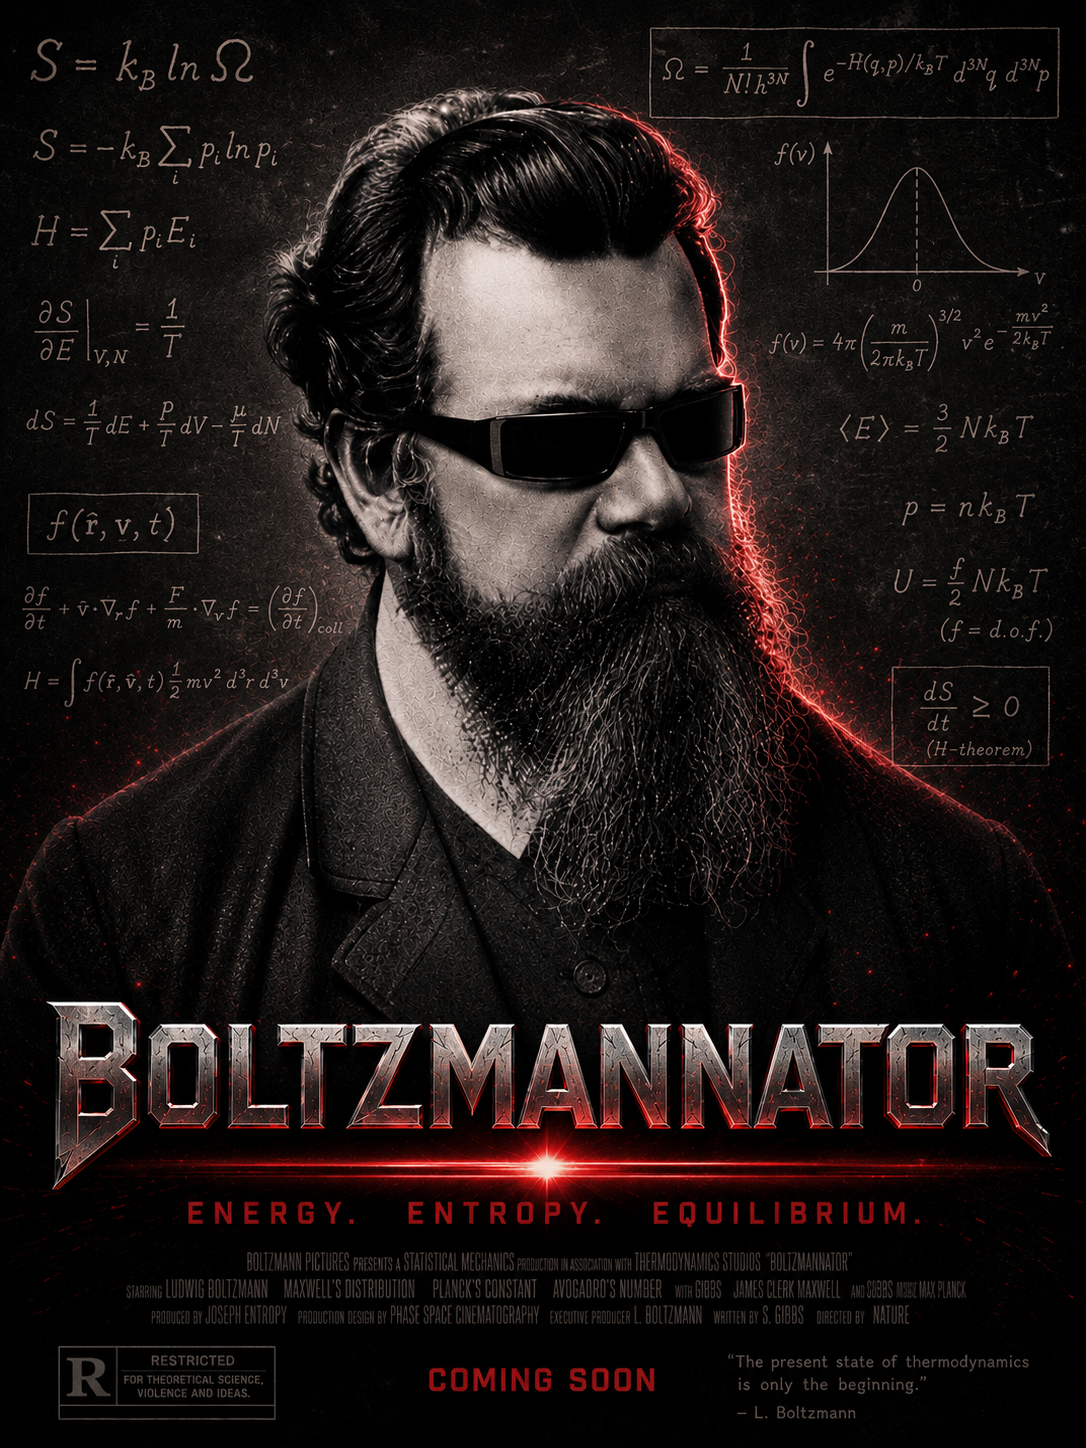
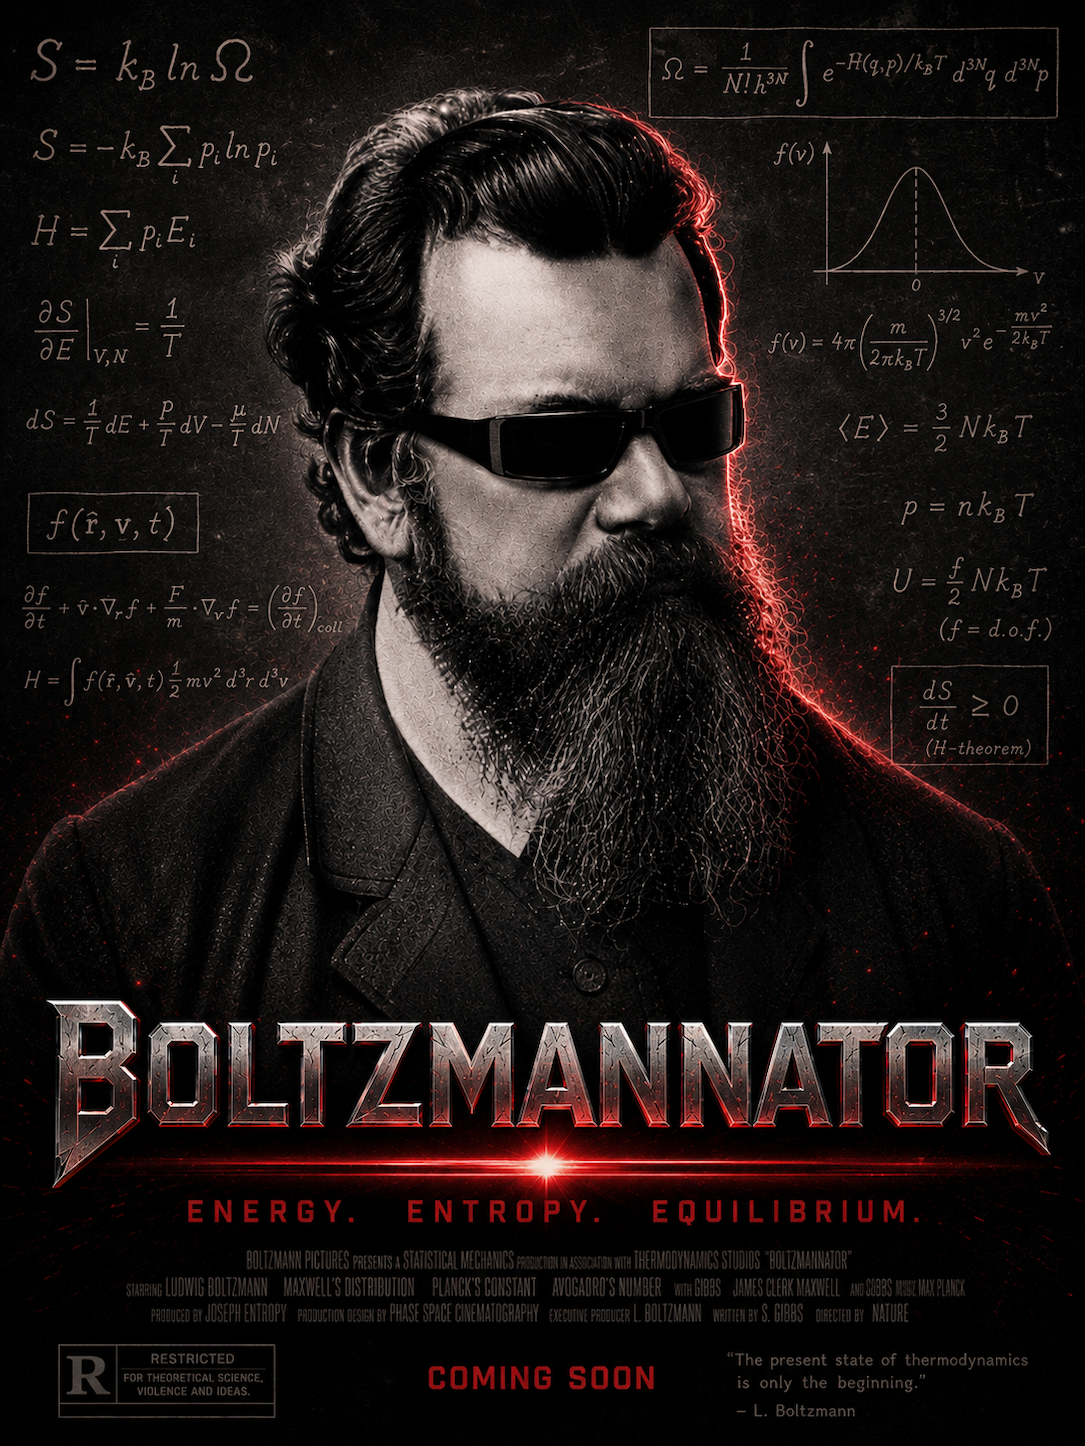
Fix control-column layout (grid; remove page padding) so Reset/Exit stay visible; keep fixed plot aspect; dark-mode polish (panel bg, x-hist twin axis, brighter weights)

diff --git a/Boltzmannator.py b/Boltzmannator.py
@@ -271,6 +271,14 @@ class NormFlowApp:
             if leg is not None:
                 for t in leg.get_texts():
                     t.set_color(fg)
+        # The x-histogram's twin axis overlays it; recolour its shared spines
+        # and x-ticks too (otherwise its default-black axis looks darker than
+        # the other panels).  Leave the right spine — that's the brown w(x)
+        # weights axis, styled separately when shown.
+        tw = self.ax_hist_x_twin
+        for name in ("bottom", "top", "left"):
+            tw.spines[name].set_color(fg)
+        tw.tick_params(axis="x", colors=fg)
 
     def _build_ui(self):
         # Per-page CSS — each browser gets its own page, so this is added per
@@ -342,17 +350,30 @@ class NormFlowApp:
         /* keep the progress-bar fill green (the rule above would grey it) */
         .body--dark .ctrl .q-linear-progress__model {
             background: #21BA45 !important; color: #21BA45 !important; }
+        /* in dark mode, fill the plot panel's letterbox margin with the same
+           grey as the figure background so there is no black border */
+        .body--dark .plotpanel { background: #23232a !important; }
         """)
         # Dark-mode controller (starts in light mode).
         self._dark_mode = ui.dark_mode()
+
+        # Remove NiceGUI's default page padding/gap so the 100vh layout starts
+        # flush at the top (otherwise the top margin pushes the bottom controls
+        # off-screen).
+        ui.query(".nicegui-content").classes("p-0 gap-0")
 
         with ui.row().classes("w-full no-wrap").style(
                 "height:100vh; gap:0; overflow:hidden"):
 
             # ── Left control panel ────────────────────────────────────────
+            # CSS grid: image / tabs / (flexible tab-scroll) / bottom controls.
+            # The 3rd row is minmax(0,1fr) so ONLY the tab area shrinks, which
+            # keeps the header and the Reset/Exit buttons always fully visible.
             with ui.column().classes("ctrl no-wrap").style(
-                    "width:340px; min-width:340px; height:100vh; gap:4px; "
-                    "background:#f0f0f0; padding:4px; overflow:hidden"):
+                    "display:grid; grid-template-rows:auto auto minmax(0,1fr) auto; "
+                    "box-sizing:border-box; width:340px; min-width:340px; "
+                    "height:100vh; gap:4px; background:#f0f0f0; padding:4px; "
+                    "overflow:hidden"):
 
                 # Header image with three small circles (overlaid in the
                 # corner, so they cost no extra vertical space) to choose the
@@ -363,7 +384,7 @@ class NormFlowApp:
                 self._pic_dots = []
                 try:
                     with ui.row().classes("no-wrap").style(
-                            "width:100%; justify-content:center; "
+                            "width:100%; flex:0 0 auto; justify-content:center; "
                             "align-items:center; gap:8px; margin:0 auto 4px"):
                         _def = self._default_pic_index()
                         self._header_img = ui.image(
@@ -380,7 +401,7 @@ class NormFlowApp:
 
                 # Tabs — segmented/pill look with Material icons.
                 with ui.tabs().classes("w-full").props(
-                        "dense inline-label") as tabs:
+                        "dense inline-label").style("flex:0 0 auto") as tabs:
                     t_dist  = ui.tab("dist",  label="Densities",
                                      icon="area_chart")
                     # Map: inline SVG of a smooth monotonically increasing
@@ -408,7 +429,8 @@ class NormFlowApp:
                                 '<span>Training</span>').style(
                             "display:inline-flex;align-items:center")
 
-                with ui.scroll_area().classes("w-full").style("flex:1 1 0; min-height:0"):
+                with ui.scroll_area().classes("w-full").style(
+                        "min-height:0; height:100%"):
                     with ui.tab_panels(tabs, value=t_dist).classes("w-full"):
 
                         # ── Densities tab ─────────────────────────────────────
@@ -687,29 +709,31 @@ class NormFlowApp:
                                       tooltip="Clear loss history and reset the "
                                               "transformation to the identity")
 
-                # ── Always-visible controls ───────────────────────────────
-                ui.separator()
-                with ui.row().classes("items-center gap-2 w-full no-wrap"):
-                    self._rescale_cb = ui.checkbox(
-                        "Auto-rescale x / z axes", value=True,
-                        on_change=lambda e: self._cb_change(
-                            "_rescale_axes_val", e.value))
-                    ui.space()
-                    self._dark_switch = ui.switch(
-                        "Dark", value=False,
-                        on_change=lambda e: self._toggle_dark(e.value)
-                    ).props("dense").tooltip("Toggle dark / light mode")
-                ui.separator()
-                with ui.row().classes("gap-2 w-full no-wrap"):
-                    self._btn("Reset", "restart_alt",
-                              "blue-grey-7", self._reset,
-                              tooltip="Reset everything to defaults")
-                    self._btn("Exit", "logout",
-                              "grey-9", self._exit_app,
-                              tooltip="Close this session")
+                # ── Always-visible controls (never shrink: flex 0 0 auto) ──
+                with ui.column().classes("w-full no-wrap").style(
+                        "flex:0 0 auto; gap:4px"):
+                    ui.separator()
+                    with ui.row().classes("items-center gap-2 w-full no-wrap"):
+                        self._rescale_cb = ui.checkbox(
+                            "Auto-rescale x / z axes", value=True,
+                            on_change=lambda e: self._cb_change(
+                                "_rescale_axes_val", e.value))
+                        ui.space()
+                        self._dark_switch = ui.switch(
+                            "Dark", value=False,
+                            on_change=lambda e: self._toggle_dark(e.value)
+                        ).props("dense").tooltip("Toggle dark / light mode")
+                    ui.separator()
+                    with ui.row().classes("gap-2 w-full no-wrap"):
+                        self._btn("Reset", "restart_alt",
+                                  "blue-grey-7", self._reset,
+                                  tooltip="Reset everything to defaults")
+                        self._btn("Exit", "logout",
+                                  "grey-9", self._exit_app,
+                                  tooltip="Close this session")
 
             # ── Right matplotlib panel ────────────────────────────────────
-            with ui.column().classes("flex-grow").style(
+            with ui.column().classes("flex-grow plotpanel").style(
                     "height:100vh; padding:2px 2px 2px 20px; overflow:hidden"):
                 self._plot = (
                     ui.matplotlib(figsize=(12.5, 9.2))
@@ -1471,7 +1495,9 @@ class NormFlowApp:
                 try:
                     _, _, Z_w, shift_w = self._tgt_cache_val
                     if Z_w > 0:
-                        CW = "#6D4C41"; ax_tw = self.ax_hist_x_twin
+                        # warm brown; brighter tan in dark mode for contrast
+                        CW = "#C9A27A" if self._dark else "#6D4C41"
+                        ax_tw = self.ax_hist_x_twin
                         ok_px = p_x_sorted > 1e-10
                         U_xs = (u1b*x_sorted + u2b*x_sorted**2
                                 + u3b*x_sorted**3 + u4b*x_sorted**4)